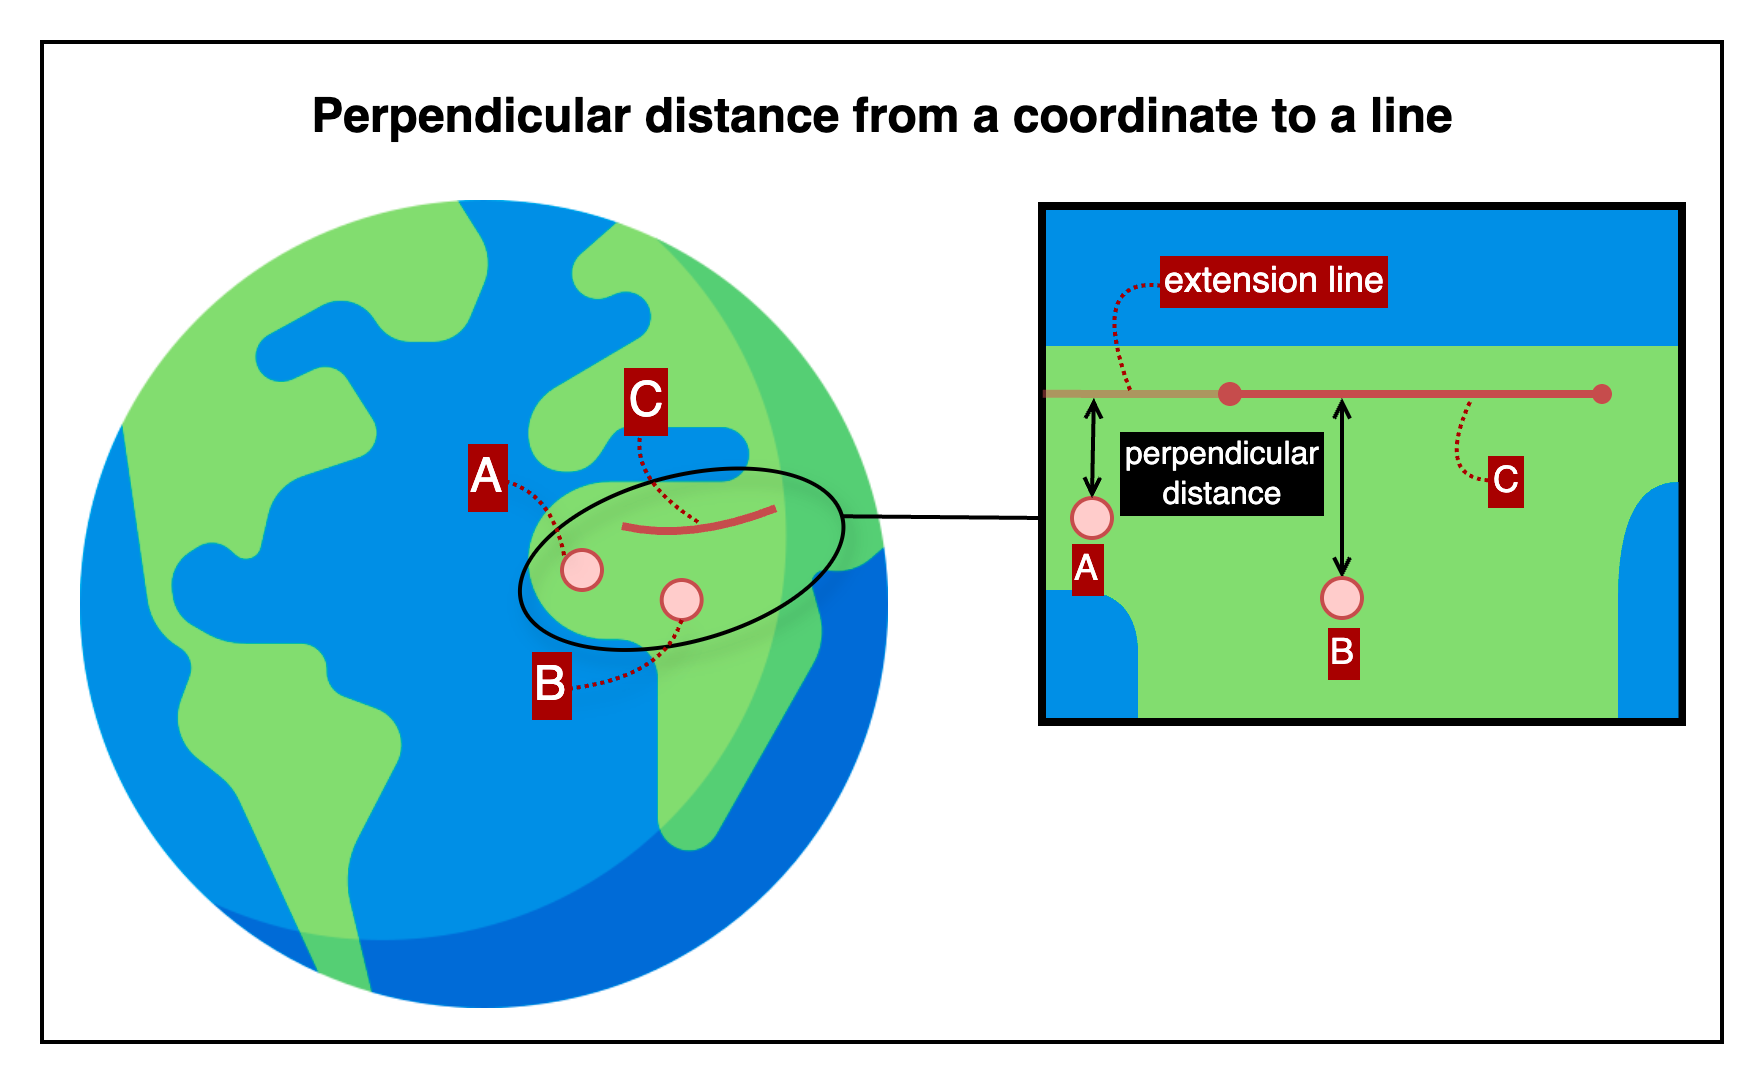
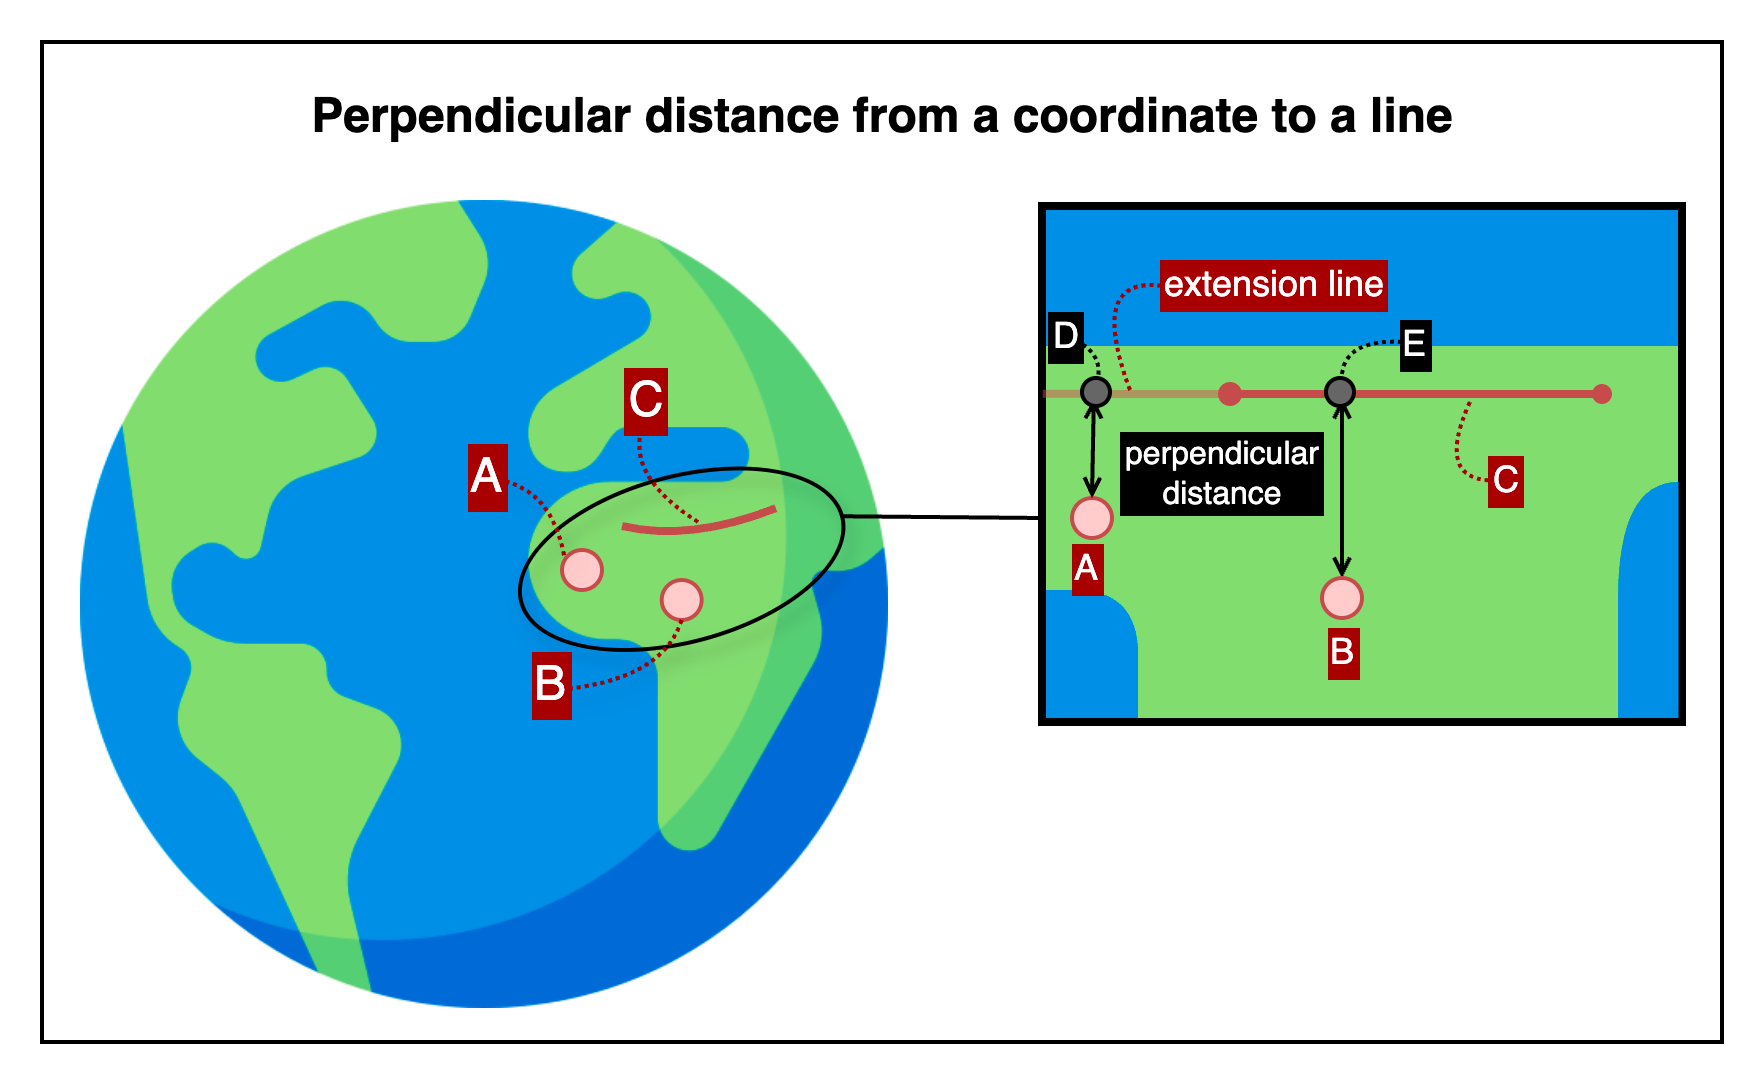
[docs] geo-calculation-toolkit-api 최신화

diff --git a/profile/projects/geo-calculation-toolkit-api/detail/perpendicular-distance-from-a-coordinate-to-a-line.md b/profile/projects/geo-calculation-toolkit-api/detail/perpendicular-distance-from-a-coordinate-to-a-line.md
@@ -1,0 +1,180 @@
+## Shortest distance from a coordinate to a line
+
+This is an HTTP API that calculates the perpendicular surface distance from a given coordinate to a straight line extended through two geographic points.
+
+---
+
+## 📚 Table of Contents
+
+1. [🧭 Overview](#-1-overview) — *For first-time users*
+2. [📤 Request Details](#-2-request-details) — *For developers integrating the API*
+    1. [Request Example](#21-request-example)
+    2. [Request Specifications](#22-request-specifications)
+3. [📥 Response Details](#-3-response-details)
+    1. [Response Example](#31-response-example)
+    2. [Response Specifications](#32-response-specifications)
+4. [💥 Error Response Details](#-4-error-response-details)
+    1. [Error Response Example](#41-error-response-example)
+    2. [Error Response Specifications](#42-error-response-specifications)
+    3. [Error Codes](#43-error-codes)
+5. [🔗 Reference Links](#-5-reference-links) — *For testing the API and retrieving your API key*
+
+---
+
+## 🧭 1. Overview
+
+![perpendicular-distance-from-a-coordinate-to-a-line](./img/perpendicular-distance-from-a-coordinate-to-a-line.png)
+
+This image provides a visual explanation of how the API calculates the perpendicular surface distance from a coordinate to a line extended through two geographic points.
+Here, point A and point B are specific geographic locations defined by latitude and longitude. The line C represents a straight line segment defined by two coordinates, which may be extended beyond its endpoints.
+
+- For point A, the perpendicular distance is calculated to point D, which lies on the extension of the input line.
+- For point B, the perpendicular intersects the line directly at point E, which lies on the original segment.
+
+This API takes a single coordinate and a line defined by two coordinates as input, and returns the shortest perpendicular surface distance from the point to the infinite line that passes through the given two points.
+
+---
+
+## 📤 2. Request Details
+
+### 2.1. Request Example
+
+```http request
+POST {{base-url}}/distance/from-point-to-line/perpendicular?unit=mm
+Content-Type: application/json
+
+{
+  "coordinate": {
+    "lat": 37.618492,
+    "lng": 126.920078
+  },
+  "line": {
+    "fromCoordinate": {
+      "lat": 37.618515,
+      "lng": 126.920021
+    },
+    "toCoordinate": {
+      "lat": 37.618385,
+      "lng": 126.920339
+    }
+  }
+}
+```
+
+### 2.2. Request Specifications
+
+**2.2.1. Base Endpoint Info**
+
+| API Provider Platform | Method | Base URL(HTTP Protocol + Host)   | Path                                         |
+|:---------------------:|:------:|----------------------------------|:---------------------------------------------|
+|       Rapid API       |  POST  | `https://yourapi.p.rapidapi.com` | `/distance/from-point-to-line/perpendicular` |
+
+**2.2.2. Request Headers**
+
+| Header Name       | Type   | Required | Description                         |
+|-------------------|--------|----------|-------------------------------------|
+| `Content-Type`    | string | ✅ Yes    | Must be `application/json`          |
+| `X-RapidAPI-Key`  | string | ✅ Yes    | Your API key issued by RapidAPI     |
+| `X-RapidAPI-Host` | string | ✅ Yes    | The API host identifier on RapidAPI |
+
+**2.2.3. Query Parameters**
+
+| Parameter | Type   | Required   | Description                                                |
+|-----------|--------|------------|------------------------------------------------------------|
+| `unit`    | string | ❌ Optional | Distance unit (`mm`, `m`, `km`, `ft`, `mi`) - defaults `m` |
+
+**2.2.4. Request Body**
+
+| Field              | Type   | Required | Description                                                                 |
+|--------------------|--------|----------|-----------------------------------------------------------------------------|
+| `coordinate`       | object | ✅ Yes    | The point from which the perpendicular shortest distance will be calculated |
+| └ `lat`            | number | ✅ Yes    | Latitude of the input point                                                 |
+| └ `lng`            | number | ✅ Yes    | Longitude of the input point                                                |
+| `line`             | object | ✅ Yes    | The line segment defined by two coordinates                                 |
+| └ `fromCoordinate` | object | ✅ Yes    | Starting point of the line                                                  |
+| └─ `lat`           | number | ✅ Yes    | Latitude of the starting point                                              |
+| └─ `lng`           | number | ✅ Yes    | Longitude of the starting point                                             |
+| └ `toCoordinate`   | object | ✅ Yes    | Ending point of the line                                                    |
+| └─ `lat`           | number | ✅ Yes    | Latitude of the ending point                                                |
+| └─ `lng`           | number | ✅ Yes    | Longitude of the ending point                                               |
+
+---
+
+## 📥 3. Response Details
+
+### 3.1. Response Example
+
+```json
+{
+  "success": true,
+  "data": {
+    "distance": 31.4989,
+    "unit": "m"
+  }
+}
+```
+
+### 3.2. Response Specifications
+
+| Field       | Type    | Nullable | Description                                                                                         |
+|-------------|---------|----------|-----------------------------------------------------------------------------------------------------|
+| `success`   | boolean | ❌ No     | Indicates whether the operation succeeded                                                           |
+| `data`      | object  | ❌ No     | Included only when `success` is `true`                                                              |
+| └`distance` | number  | ❌ No     | Shortest perpendicular surface distance from the input coordinate to the line (4 decimal precision) |
+| └`unit`     | string  | ❌ No     | Unit of measurement (e.g. `m`, `km`, `mi`)                                                          |
+
+---
+
+## 💥 4. Error Response Details
+
+### 4.1. Error Response Example
+
+```http request
+400 Bad Request
+Content-Type: application/json
+
+{
+  "success": false,
+  "code": "REQUIRED_PARAMETER_MISSING",
+  "message": "Required parameter is missing.",
+  "detailMessage": "Required parameter is missing. (fromCoordinate)"
+}
+```
+
+### 4.2. Error Response Specifications
+
+**4.2.1. Error Response Headers**
+
+| Header Name    | Example Value      | Description                    |
+|----------------|--------------------|--------------------------------|
+| `Content-Type` | `application/json` | MIME type of the response body |
+
+**4.2.2. Error Response Body**
+
+| Field           | Type    | Nullable | Description                                                                      |
+|-----------------|---------|----------|----------------------------------------------------------------------------------|
+| `success`       | boolean | ❌ No     | Indicates whether the operation was successful. Always `false` here.             |
+| `code`          | string  | ❌ No     | Application-defined error code representing the type of failure.                 |
+| `message`       | string  | ❌ No     | General explanation of the error.                                                |
+| `detailMessage` | string  | ❌ No     | Additional information providing context about the error for debugging purposes. |
+
+### 4.3. Error Codes
+
+To view the full list of error codes, please visit the link below.
+
+- [Error Codes](./common/error-codes.md)
+
+---
+
+## 🔗 5. Reference Links
+
+- [🚀 Try the API on RapidAPI Console](https://rapidapi.com/your-api/test)  
+  Run live requests, view sample code, pricing, and manage your API key—all in one place.
+
+
+- [💬 Contact Support](mailto:support@yourapi.com)  
+  If you have any questions or need help with the API, feel free to email us. We’ll get back to you as soon as possible.
+
+---
+
+[Go to API List](../index.md)

diff --git a/profile/projects/geo-calculation-toolkit-api/detail/shortest-distance-from-a-coordinate-to-a-line.md b/profile/projects/geo-calculation-toolkit-api/detail/shortest-distance-from-a-coordinate-to-a-line.md
@@ -27,18 +27,13 @@ two geographic points.
 
 ![shortest-distance-from-a-coordinate-to-a-line](./img/shortest-distance-from-a-coordinate-to-a-line.png)
 
-This image provides a visual explanation of how the API calculates the shortest distance from a coordinate to a single
-polyline.
-Points A and B represent specific locations defined by latitude and longitude, while polyline C is a straight line
-segment formed by exactly two geographic coordinates.
+This image provides a visual explanation of how the API calculates the shortest distance from a coordinate to a single polyline.
+Points A and B represent specific locations defined by latitude and longitude, while polyline C is a straight line segment formed by exactly two geographic coordinates.
 
-- For point A, the shortest distance to polyline C is represented by the segment from A to point D, which lies on
-  polyline C.
+- For point A, the shortest distance to polyline C is represented by the segment from A to point D, which lies on polyline C.
 - For point B, the shortest distance is the segment from B to point E, also located on polyline C.
 
-This API takes a single coordinate and a polyline consisting of two coordinates as input, and returns the shortest
-surface distance, taking the curvature of the Earth into account.
-
+This API takes a single coordinate and a polyline consisting of two coordinates as input, and returns the shortest surface distance, taking the curvature of the Earth into account.
 
 ---
 
@@ -158,12 +153,12 @@ Content-Type: application/json
 
 **4.2.2. Error Response Body**
 
-| Field           | Type    | Nullable | Description                                                                       |
-|-----------------|---------|----------|-----------------------------------------------------------------------------------|
-| `success`       | boolean | ❌ No     | Indicates whether the operation was successful. Always `false` here.              |
-| `code`          | string  | ❌ No     | Application-defined error code representing the type of failure.                  |
-| `message`       | string  | ❌ No     | General explanation of the error.                                                 |
-| `detailMessage` | string  | ❌ No     | 	Additional information providing context about the error for debugging purposes. |
+| Field           | Type    | Nullable | Description                                                                      |
+|-----------------|---------|----------|----------------------------------------------------------------------------------|
+| `success`       | boolean | ❌ No     | Indicates whether the operation was successful. Always `false` here.             |
+| `code`          | string  | ❌ No     | Application-defined error code representing the type of failure.                 |
+| `message`       | string  | ❌ No     | General explanation of the error.                                                |
+| `detailMessage` | string  | ❌ No     | Additional information providing context about the error for debugging purposes. |
 
 ### 4.3. Error Codes
 

diff --git a/profile/projects/geo-calculation-toolkit-api/detail/distance-between-two-coordinates.md b/profile/projects/geo-calculation-toolkit-api/detail/distance-between-two-coordinates.md
@@ -142,12 +142,12 @@ Content-Type: application/json
 
 **4.2.2. Error Response Body**
 
-| Field           | Type    | Nullable | Description                                                                       |
-|-----------------|---------|----------|-----------------------------------------------------------------------------------|
-| `success`       | boolean | ❌ No     | Indicates whether the operation was successful. Always `false` here.              |
-| `code`          | string  | ❌ No     | Application-defined error code representing the type of failure.                  |
-| `message`       | string  | ❌ No     | General explanation of the error.                                                 |
-| `detailMessage` | string  | ❌ No     | 	Additional information providing context about the error for debugging purposes. |
+| Field           | Type    | Nullable | Description                                                                      |
+|-----------------|---------|----------|----------------------------------------------------------------------------------|
+| `success`       | boolean | ❌ No     | Indicates whether the operation was successful. Always `false` here.             |
+| `code`          | string  | ❌ No     | Application-defined error code representing the type of failure.                 |
+| `message`       | string  | ❌ No     | General explanation of the error.                                                |
+| `detailMessage` | string  | ❌ No     | Additional information providing context about the error for debugging purposes. |
 
 ### 4.3. Error Codes
 
